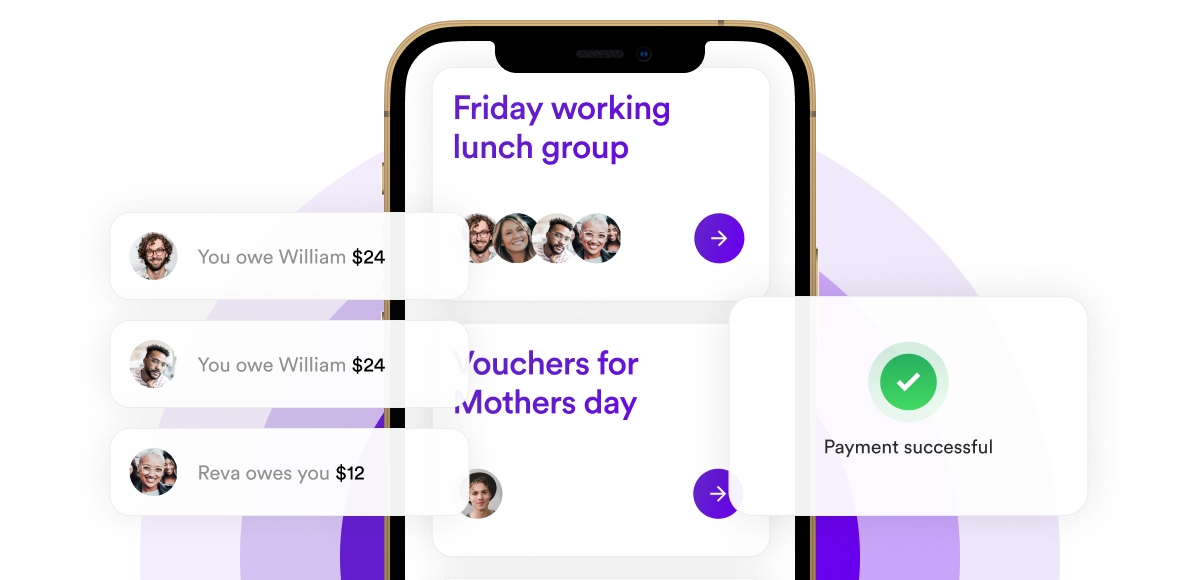
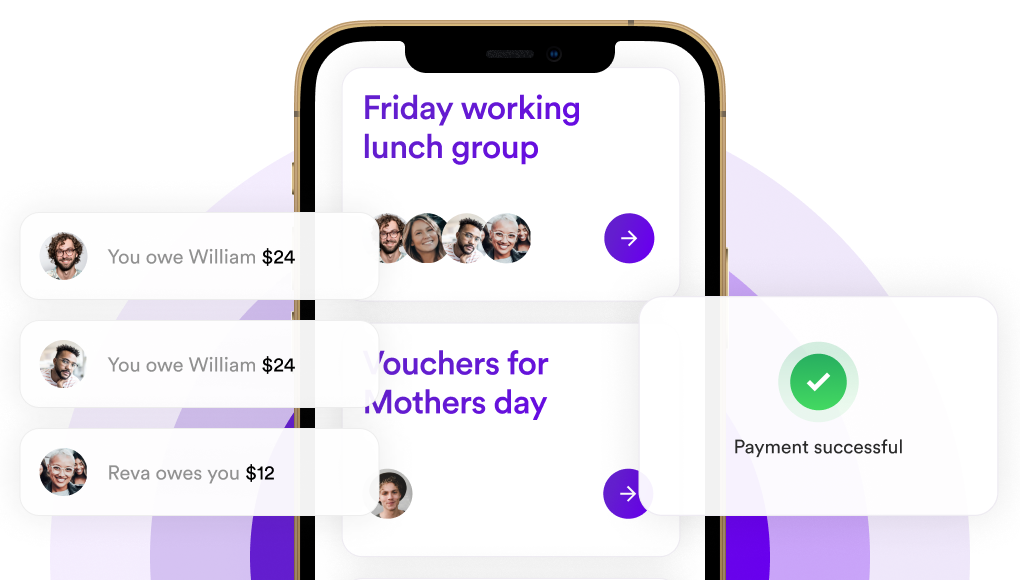
Minor adjustments to hero

diff --git a/content/_index.md b/content/_index.md
@@ -26,7 +26,7 @@ sections:
             url: /
             open_in_new_tab: false
     style:
-      content_width: Large
+      content_width: Medium
       content_alignment: Center
       vertical_alignment: Middle
       include_background_color: false
